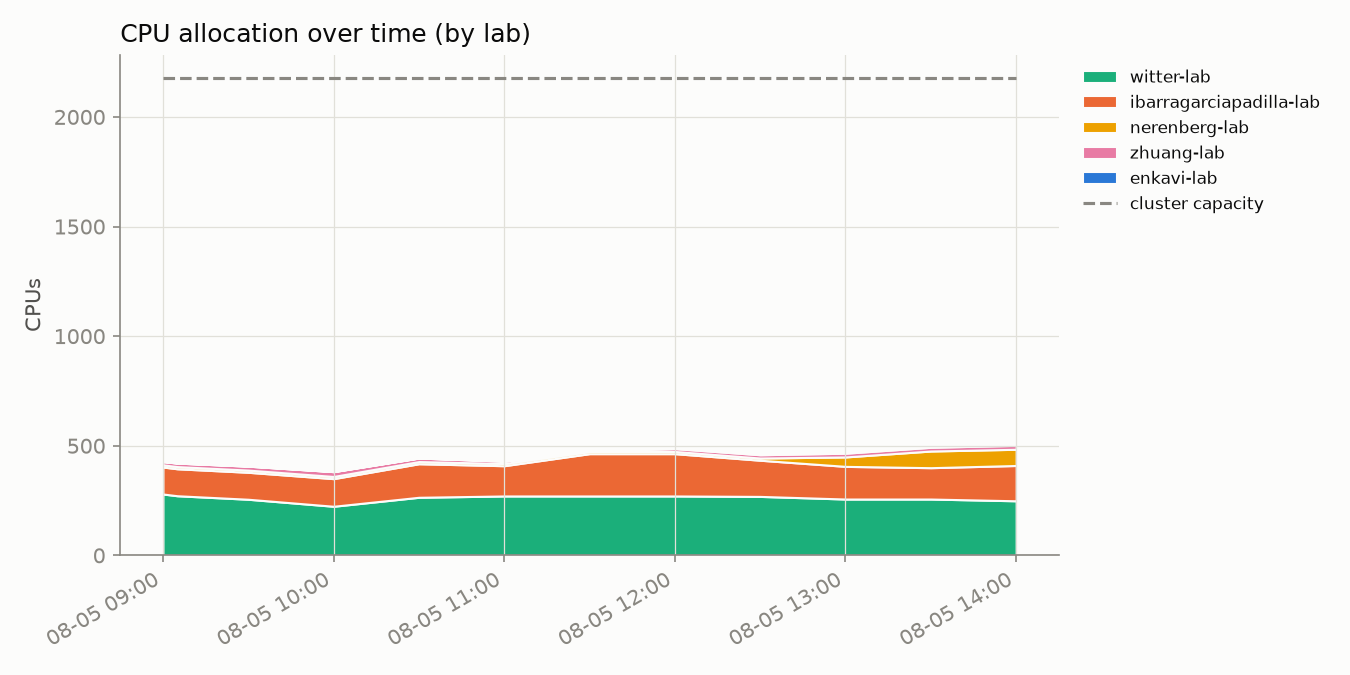
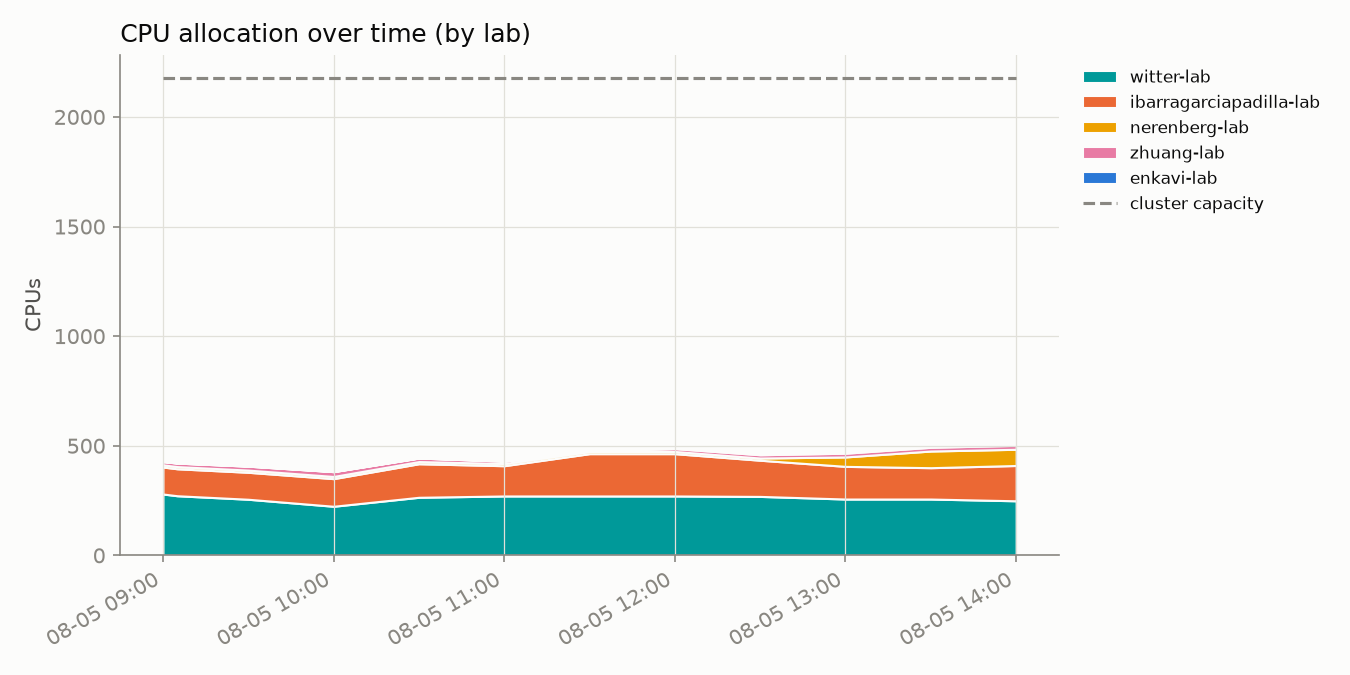
Fix p90<median inversion, real teal for witter-lab, remove table emoji
- Queue-wait p90 used sorted_vals[int(0.9*(n-1))], which at small n rounds
  to the wrong end - for n=2 it's index 0, silently returning the *smaller*
  of the two values as "p90". Confirmed against live data: two snapshots
  with only 2 eligible pending jobs showed p90 well below median. Replaced
  with a proper linear-interpolation percentile (numpy's default method),
  monotonic in p by construction, used for both median and p90 now so they
  can't invert regardless of sample size.
- witter-lab was #1baf7a (aqua/green, not teal). True teal (#008080) fails
  the dataviz skill's chroma floor (reads gray); #009999 is the nearest
  fully-saturated teal that passes, re-validated in the full 8-color set
  (scripts/validate_palette.js, all checks pass) since swapping the hex
  changed which colors end up adjacent.
- Removed the colored-square emoji from the per-lab/user table per request;
  row background tint remains for renderers that keep inline CSS (not
  GitHub itself, confirmed).

Changed region(s): [[0.1244, 0.7156, 0.7778, 0.84], [0.8089, 0.0933, 0.84, 0.1244]]

diff --git a/render_readme.py b/render_readme.py
@@ -30,24 +30,19 @@ ASSETS.mkdir(exist_ok=True)
 HALF_LIFE_HOURS = 168.0
 
 # Categorical palette (fixed order, validated for CVD/contrast on the stacked-
-# area "adjacent" pairlist - see the dataviz skill). witter-lab is pinned to
-# teal/aqua specifically (by request); other labs take the remaining 7 colors
-# in fixed order by name. Extra labs beyond 8 total fold into "Other" (muted
-# gray) rather than generating a 9th hue.
+# area "adjacent" pairlist - see the dataviz skill; re-validated with this
+# exact teal via scripts/validate_palette.js after swapping it in - all
+# checks pass in this order). witter-lab is pinned to a true teal (#008080
+# reads as too gray - chroma 0.093, below the validator's floor - #009999 is
+# the nearest fully-saturated teal that still clears it) specifically by
+# request; other labs take the remaining 7 colors in fixed order by name.
+# Extra labs beyond 8 total fold into "Other" (muted gray) rather than
+# generating a 9th hue.
 WITTER_LAB = "witter-lab"
-WITTER_COLOR = "#1baf7a"
+WITTER_COLOR = "#009999"
 LAB_COLORS = ["#2a78d6", "#eb6834", "#eda100",
               "#e87ba4", "#008300", "#4a3aa7", "#e34948"]
 OTHER_COLOR = "#898781"
-# Nearest colored-square emoji per hex - a zero-dependency color cue for the
-# README table that renders identically everywhere (GitHub strips inline CSS
-# from README HTML, so this is the reliable channel; the light background
-# tint below is a bonus if it survives, not the thing being relied on).
-LAB_EMOJI = {
-    WITTER_COLOR: "\U0001F7E9", "#2a78d6": "\U0001F7E6", "#eb6834": "\U0001F7E7",
-    "#eda100": "\U0001F7E8", "#e87ba4": "\U0001F7EA", "#008300": "\U0001F7EB",
-    "#4a3aa7": "⬛", "#e34948": "\U0001F7E5", OTHER_COLOR: "⬜",
-}
 # "Computing, unattributed" band: real nvidia-smi utilization that couldn't be
 # joined to a job/lab (the ssh-based PID lookup misses some processes - see
 # README note). Not lab-colored since we don't know which lab it belongs to.
@@ -137,6 +132,21 @@ def interval_hours(sorted_distinct_ts):
         intervals[sorted_distinct_ts[i]] = d
     intervals[sorted_distinct_ts[-1]] = stats.median(deltas) if deltas else 0.5
     return intervals
+
+
+def percentile(sorted_vals, p):
+    """Linear-interpolation percentile (the "linear" method numpy/Excel use
+    by default). Monotonic in p by construction - p90 can never fall below
+    p50 for the same data, unlike `sorted_vals[int(p/100 * (n-1))]`, which at
+    small n rounds toward the wrong end: for n=2 it's `int(0.9*1)=0`, i.e.
+    "p90" silently becomes the *smaller* of the two values."""
+    n = len(sorted_vals)
+    if n == 1:
+        return sorted_vals[0]
+    idx = (p / 100) * (n - 1)
+    lo = int(idx)
+    hi = min(lo + 1, n - 1)
+    return sorted_vals[lo] + (sorted_vals[hi] - sorted_vals[lo]) * (idx - lo)
 
 
 def usage_chart(path, title, ylabel, x, series_by_lab, colors, shown,
@@ -384,8 +394,8 @@ def main():
     if by_ts_wait:
         ts_sorted4 = sorted(by_ts_wait, key=parse_ts)
         x4 = [parse_ts(t) for t in ts_sorted4]
-        med = [stats.median(by_ts_wait[t]) for t in ts_sorted4]
-        p90 = [sorted(by_ts_wait[t])[int(0.9 * (len(by_ts_wait[t]) - 1))] for t in ts_sorted4]
+        med = [percentile(sorted(by_ts_wait[t]), 50) for t in ts_sorted4]
+        p90 = [percentile(sorted(by_ts_wait[t]), 90) for t in ts_sorted4]
         fig, ax = plt.subplots(figsize=(9, 4))
         ax.plot(x4, med, color=LAB_COLORS[0], linewidth=2, marker="o", markersize=4,
                  label="median wait")
@@ -509,18 +519,18 @@ def main():
         util = f"{row['util_pct']:.0f}%" if row["util_pct"] is not None else "—"
         color = colors.get(row["lab"], OTHER_COLOR)
         bg = lighten(color)
-        emoji = LAB_EMOJI.get(color, "")
         lines.append(f"<tr style='background-color:{bg}'>"
-                     f"<td>{emoji} {row['lab']}</td><td>{row['user']}</td>"
+                     f"<td>{row['lab']}</td><td>{row['user']}</td>"
                      f"<td align='right'>{row['gpu_hours']:.1f}</td>"
                      f"<td align='right'>{row['cpu_hours']:.1f}</td>"
                      f"<td align='right'>{util}</td></tr>")
     lines.append("</table>")
     lines.append("")
-    lines.append("(Row background is each lab's chart color, lightened - GitHub strips the "
-                 "inline CSS that carries it, confirmed against the live rendered page, so "
-                 "on github.com the colored square is what you'll actually see; the tint is "
-                 "there for other renderers, e.g. an editor's local Markdown preview.)")
+    lines.append("(Row background is each lab's chart color, lightened, matching the charts "
+                 "above - GitHub strips the inline CSS that carries it (confirmed against the "
+                 "live rendered page), so on github.com this table renders plain; the tint "
+                 "shows in renderers that keep inline styles, e.g. an editor's local Markdown "
+                 "preview.)")
     lines.append("")
     lines.append("## Usage over time")
     lines.append("")

diff --git a/README.md b/README.md
@@ -2,7 +2,7 @@
 
 Automated GPU/CPU/queue utilization tracker for `hopper.cluster`, updated every 30 minutes by cron. Usernames are anonymized to a stable per-account pseudonym; lab names are real.
 
-Last updated: 2026-08-05T14:11:35-07:00
+Last updated: 2026-08-05T14:21:36-07:00
 Samples: 12 queue snapshots, 12 GPU snapshots
 
 ## Resources
@@ -23,17 +23,17 @@ Samples: 12 queue snapshots, 12 GPU snapshots
 
 <table>
 <tr><th>Lab</th><th>User</th><th align='right'>GPU-hours allocated</th><th align='right'>CPU-hours allocated</th><th align='right'>GPU utilization</th></tr>
-<tr style='background-color:#dcf3eb'><td>🟩 witter-lab</td><td>user-d58f5a15</td><td align='right'>167.6</td><td align='right'>1340.7</td><td align='right'>7%</td></tr>
-<tr style='background-color:#fbebf1'><td>🟪 zhuang-lab</td><td>user-0db9ced0</td><td align='right'>82.4</td><td align='right'>82.4</td><td align='right'>45%</td></tr>
-<tr style='background-color:#dcf3eb'><td>🟩 witter-lab</td><td>user-554c620c</td><td align='right'>18.5</td><td align='right'>91.0</td><td align='right'>71%</td></tr>
-<tr style='background-color:#fcf0d8'><td>🟨 nerenberg-lab</td><td>user-6bb5f332</td><td align='right'>11.0</td><td align='right'>55.0</td><td align='right'>72%</td></tr>
-<tr style='background-color:#dfeaf8'><td>🟦 enkavi-lab</td><td>user-c21bdaa4</td><td align='right'>0.0</td><td align='right'>12.0</td><td align='right'>—</td></tr>
-<tr style='background-color:#fce8e0'><td>🟧 ibarragarciapadilla-lab</td><td>user-3cfc41a3</td><td align='right'>0.0</td><td align='right'>660.0</td><td align='right'>—</td></tr>
-<tr style='background-color:#fcf0d8'><td>🟨 nerenberg-lab</td><td>user-b12dc074</td><td align='right'>0.0</td><td align='right'>81.5</td><td align='right'>—</td></tr>
-<tr style='background-color:#fce8e0'><td>🟧 ibarragarciapadilla-lab</td><td>user-eec7ffae</td><td align='right'>0.0</td><td align='right'>173.5</td><td align='right'>—</td></tr>
+<tr style='background-color:#d8efef'><td>witter-lab</td><td>user-d58f5a15</td><td align='right'>167.6</td><td align='right'>1340.7</td><td align='right'>7%</td></tr>
+<tr style='background-color:#fbebf1'><td>zhuang-lab</td><td>user-0db9ced0</td><td align='right'>82.4</td><td align='right'>82.4</td><td align='right'>45%</td></tr>
+<tr style='background-color:#d8efef'><td>witter-lab</td><td>user-554c620c</td><td align='right'>18.5</td><td align='right'>91.0</td><td align='right'>71%</td></tr>
+<tr style='background-color:#fcf0d8'><td>nerenberg-lab</td><td>user-6bb5f332</td><td align='right'>11.0</td><td align='right'>55.0</td><td align='right'>72%</td></tr>
+<tr style='background-color:#fce8e0'><td>ibarragarciapadilla-lab</td><td>user-eec7ffae</td><td align='right'>0.0</td><td align='right'>173.5</td><td align='right'>—</td></tr>
+<tr style='background-color:#fce8e0'><td>ibarragarciapadilla-lab</td><td>user-3cfc41a3</td><td align='right'>0.0</td><td align='right'>660.0</td><td align='right'>—</td></tr>
+<tr style='background-color:#fcf0d8'><td>nerenberg-lab</td><td>user-b12dc074</td><td align='right'>0.0</td><td align='right'>81.5</td><td align='right'>—</td></tr>
+<tr style='background-color:#dfeaf8'><td>enkavi-lab</td><td>user-c21bdaa4</td><td align='right'>0.0</td><td align='right'>12.0</td><td align='right'>—</td></tr>
 </table>
 
-(Row background is each lab's chart color, lightened - GitHub strips the inline CSS that carries it, confirmed against the live rendered page, so on github.com the colored square is what you'll actually see; the tint is there for other renderers, e.g. an editor's local Markdown preview.)
+(Row background is each lab's chart color, lightened, matching the charts above - GitHub strips the inline CSS that carries it (confirmed against the live rendered page), so on github.com this table renders plain; the tint shows in renderers that keep inline styles, e.g. an editor's local Markdown preview.)
 
 ## Usage over time
 
